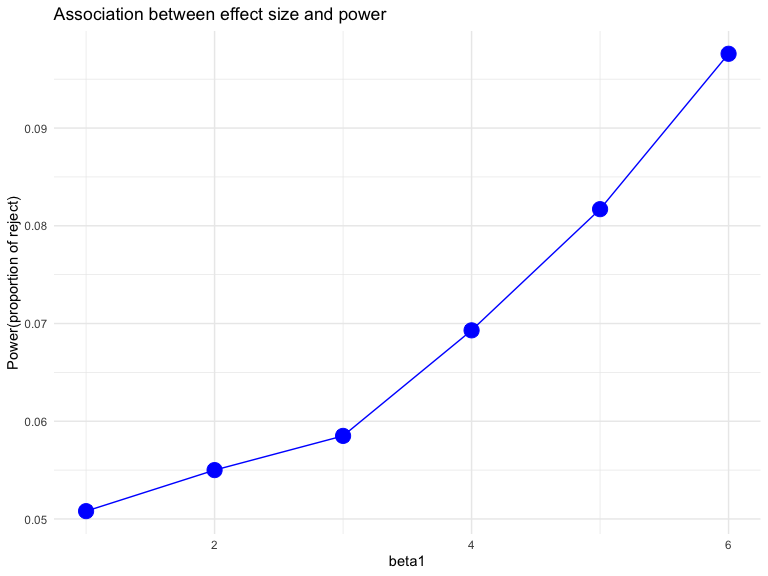
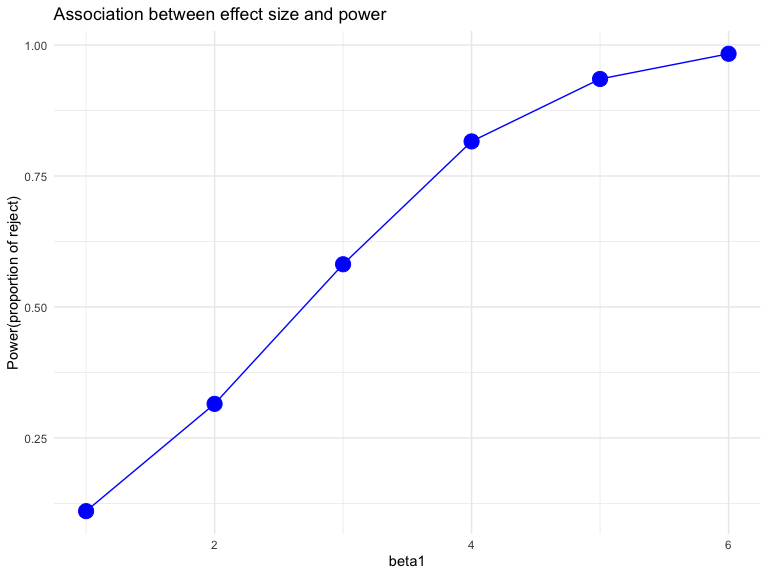
change std

diff --git a/p8105_hw5_ys3298.md b/p8105_hw5_ys3298.md
@@ -106,15 +106,17 @@ clean_data %>%
 
 From the plots, we can see the overall observations in experimental
 group are higher than the control group and the observation for each day
-in a week remains at the same level for control group, wheras increases
-for observation group.
+in a week flactuate a lot but basiclly remains at the same level for
+control group, wheras increases for observation group.
 
 # PROBLEM3
 
 ``` r
+set.seed(1)
+
 model = function(beta1 = 0) {
   x = rnorm(30, 0, 1)
-  epi = rnorm(30, 0, sd = 50)
+  epi = rnorm(30, 0, sd = sqrt(50))
   y = 2 + beta1 * x + epi
   data = tibble(x = x, y = y)
   
@@ -151,8 +153,9 @@ proportion %>%
 ```
 
 <img src="p8105_hw5_ys3298_files/figure-gfm/unnamed-chunk-6-1.png" width="90%" />
-**Describe the association between effect size and power:** Power
-increases with the increase of size effect.
+**Describe the association between effect size and power:** Form the
+plot, we can see there is a linear relationship between power and size
+effect. Power increases with the increase of size effect.
 
 ``` r
 beta1_true_average = 
@@ -166,19 +169,21 @@ beta1_reject_average =
   group_by(beta1_true) %>% 
   summarize(average_reject = mean(beta1)) 
 
-all_info = left_join(sim_all, beta1_true_average) %>% 
-  left_join(beta1_reject_average)
+all_info = left_join(beta1_true_average,beta1_reject_average) 
 ```
 
-    ## Joining, by = "beta1_true"
     ## Joining, by = "beta1_true"
 
 ``` r
 all_info %>% 
-  ggplot(aes(x = beta1_true)) + geom_point(aes(y = average), size = 5, color = "pink") +
+  ggplot(aes(x = beta1_true)) + 
+  geom_point(aes(y = average), size = 5, color = "pink") +
   geom_line(aes(y = average, color = "pink")) + 
   geom_point(aes(y = average_reject), size = 5, color = "blue") +
   geom_line(aes(y = average_reject), color = "blue") +
+  scale_color_identity(breaks = c("pink", "blue"),
+                       labels = c("True values", "Rejected values"),
+                       guide = "legend") +
   labs(
     title = "Estimate Beta1 Vs True Beta1",
     x = "True Beta1",
@@ -192,4 +197,5 @@ The sample average of beta1\_hat across tests for which the null is
 rejected is not approximately equal to the true value of beta1.
 
 Because the null here is beta1 = 0. When we reject the null, we get
-result from beta1$$0, so the model changes here.
+result from beta1 not equal to 0. As the real beta 1 increases, the
+difference between these two will converge.
